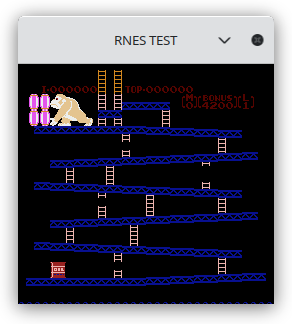
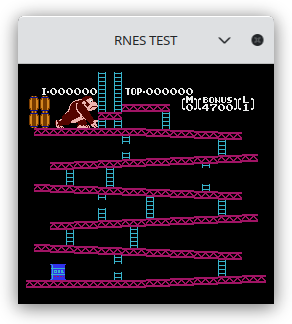
Fixed another PPU scroll bug, as well as a bug in background color fetching, updated screenshots to reflect that.

Changed region(s): [[0.0925, 0.216, 0.9247, 0.8951]]

diff --git a/src/ppu.rs b/src/ppu.rs
@@ -242,9 +242,9 @@ impl PPU {
                 } else {
                     reg.scroll_y = val;
                     let t = reg.tmp_vram_addr;
-                    reg.tmp_vram_addr = (t & 0xBFFF) | ((val as u16 & 0x07) << 12);
+                    reg.tmp_vram_addr = (t & 0x8FFF) | ((val as u16 & 0x07) << 12);
                     let t = reg.tmp_vram_addr;
-                    reg.tmp_vram_addr = (t & 0xFC1F) | ((val as u16 & 0xF8) << 3);
+                    reg.tmp_vram_addr = (t & 0xFC1F) | ((val as u16 & 0xF8) << 2);
                 }
                 reg.scroll_latch = !reg.scroll_latch;
             }
@@ -351,7 +351,7 @@ impl PPU {
             let bg_color_idx = self.palette_ram[0] as usize;
             return NES_COLOR_PALETTE[bg_color_idx & 63];
         }
-        let palette_base = (palette_idx << 2).wrapping_add(0x11);
+        let palette_base = (palette_idx << 2).wrapping_add(1);
         let palette_ram_idx = palette_base.wrapping_add(color_idx.wrapping_sub(1)) as usize;
         let palette_color_idx = self.palette_ram[palette_ram_idx] as usize;
 

diff --git a/src/main.rs b/src/main.rs
@@ -17,7 +17,7 @@ fn main() {
     };
     use sdl2::{event::Event, rect::Rect};
 
-    let cart = Cartridge::from_file("test_roms/nestest.nes").unwrap();
+    let cart = Cartridge::from_file("official_roms/Tetris.nes").unwrap();
     let mapper = Mapper::with_cart(cart);
 
     let mut cpu = CPU::init(Bus::init(mapper));
